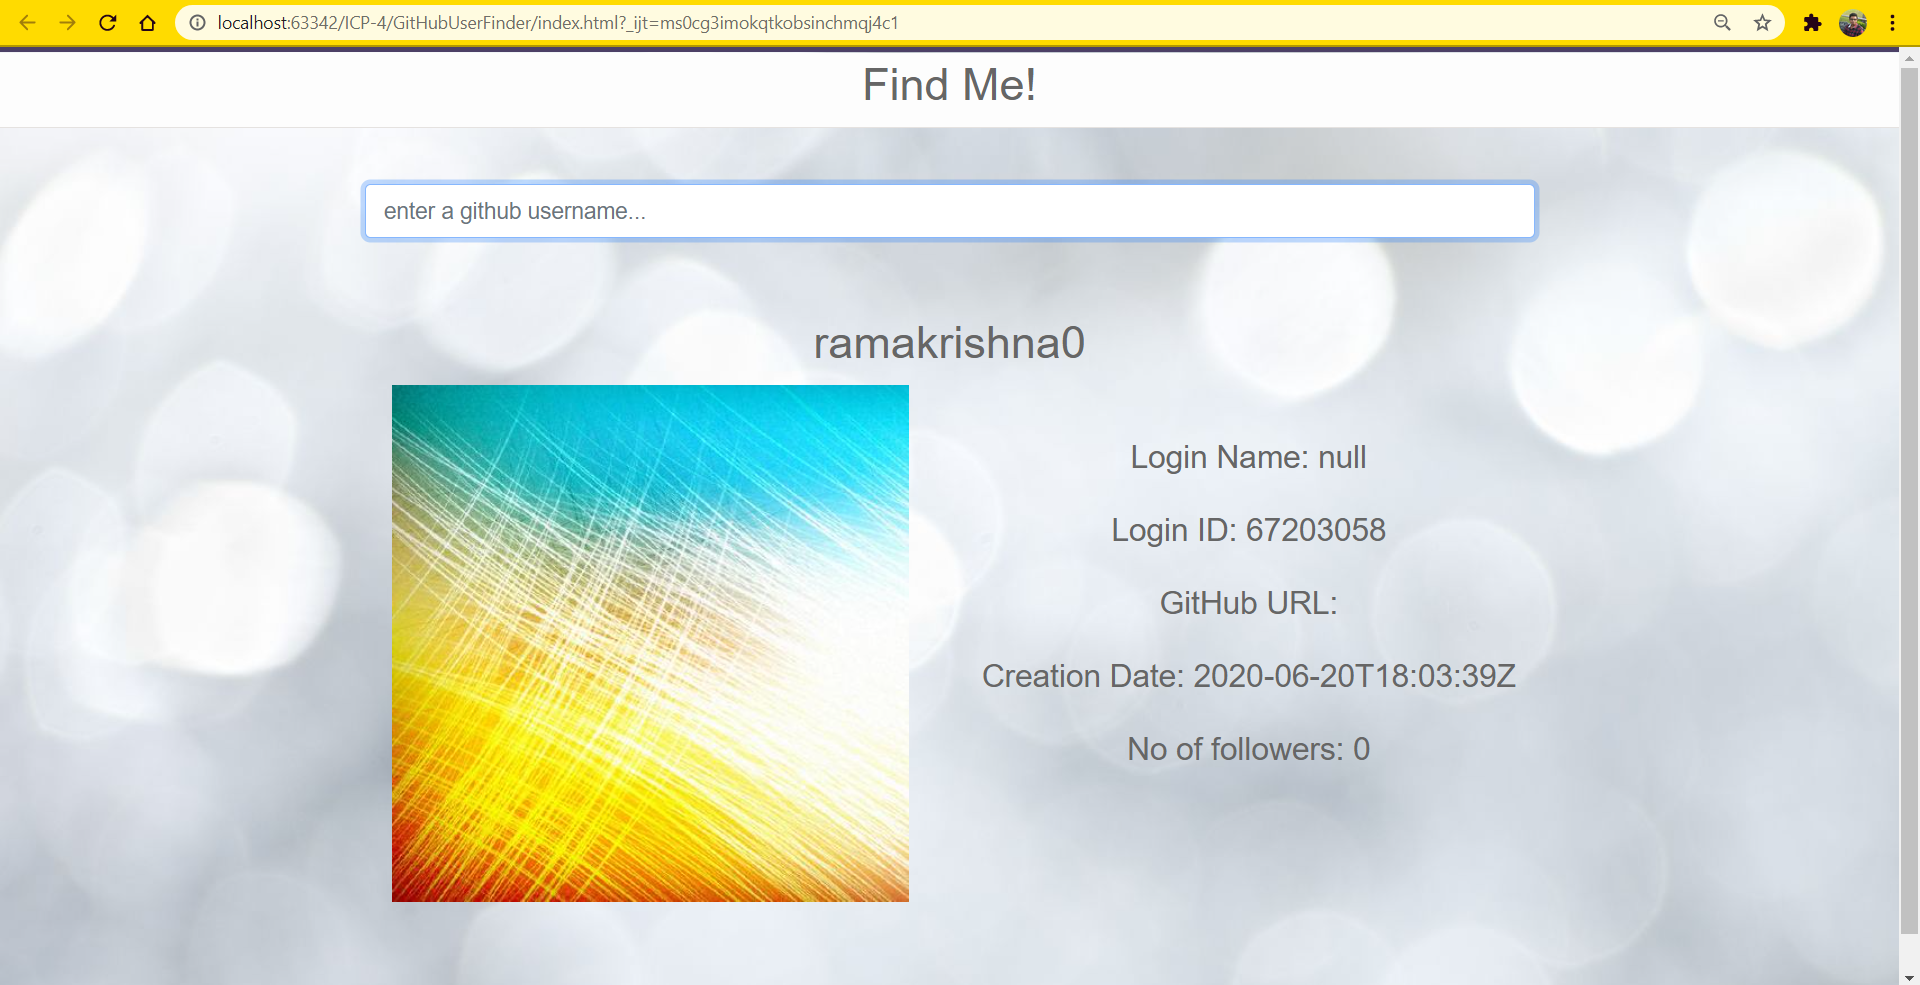
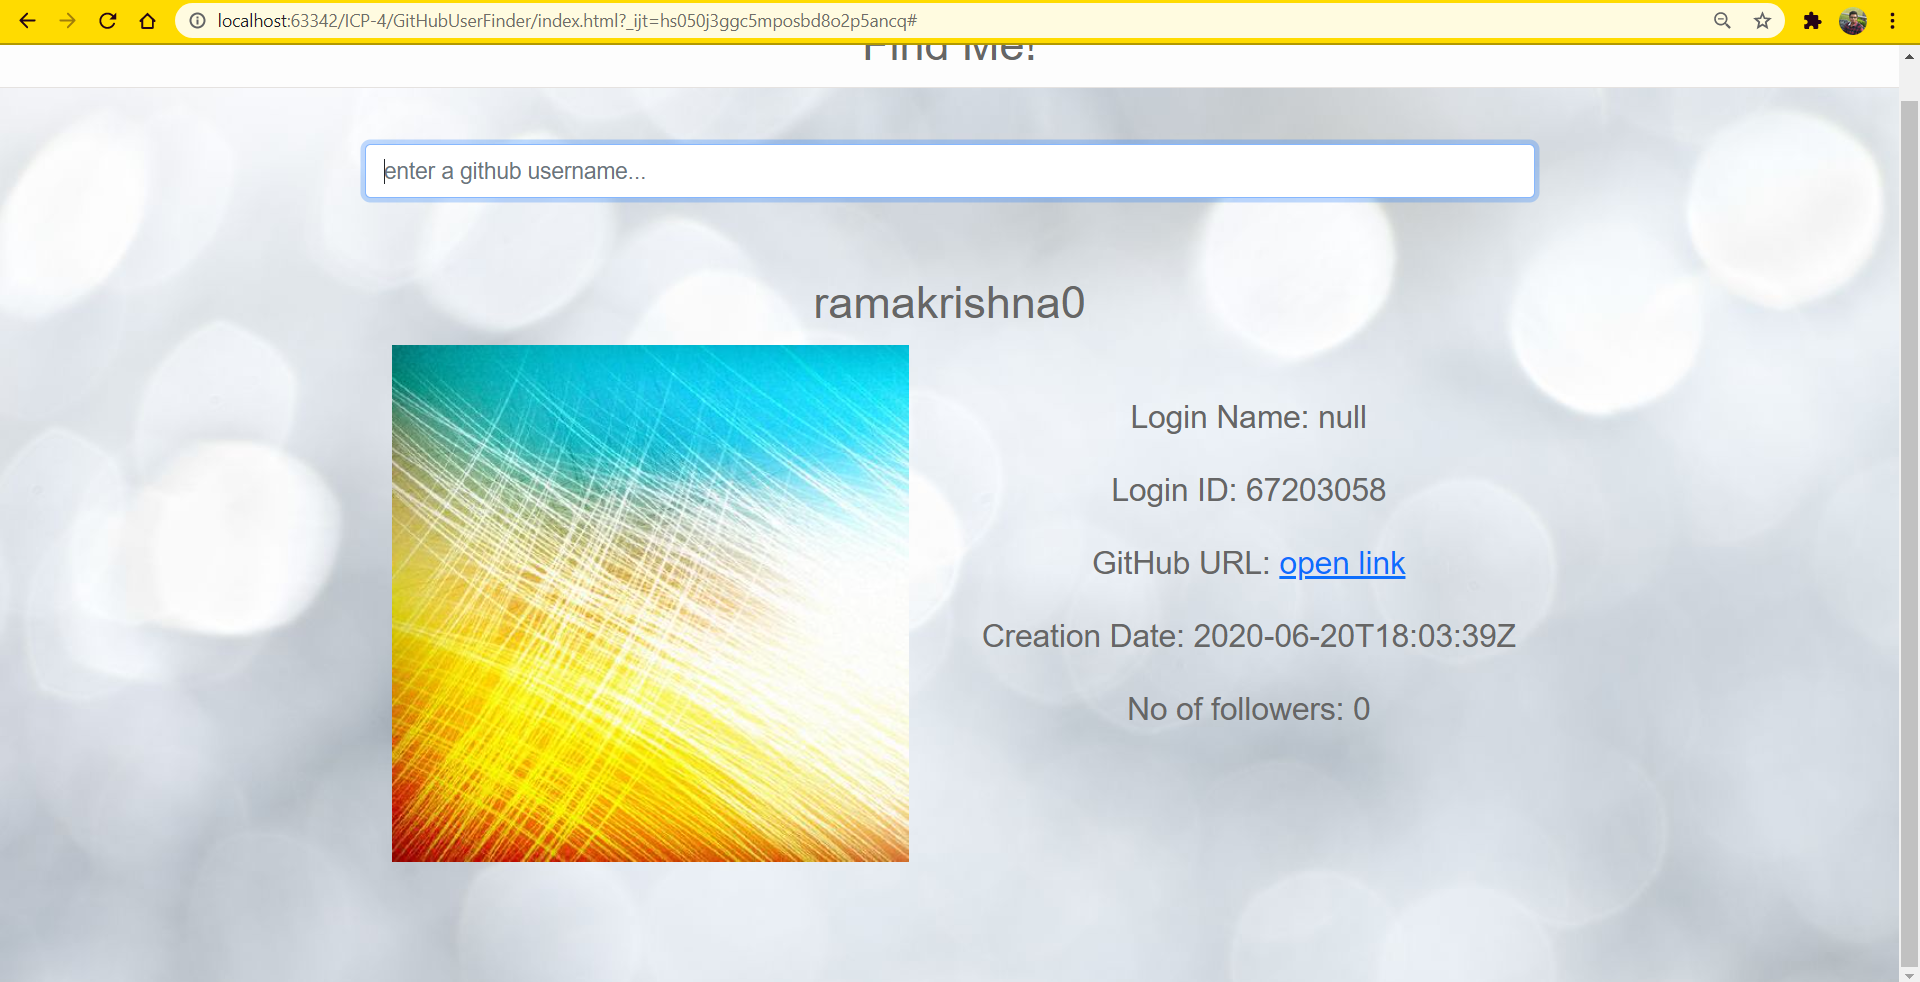
ICP-4

diff --git a/ICP-4/GitHubUserFinder/index.html b/ICP-4/GitHubUserFinder/index.html
@@ -25,7 +25,9 @@
                 <br/><br/>
                 <h3>Login Name: <span id="name"></span></h3><br/>
                 <h3>Login ID: <span id="loginId"></span></h3><br/>
-                <h3>GitHub URL: <span id="gitURL"></span></h3><br/>
+                <h3>GitHub URL:
+                    <a href="#" target="_blank" id="git">open link</a>
+                </h3><br/>
                 <h3>Creation Date: <span id="creationDate"></span></h3><br/>
                 <h3>No of followers: <span id="followers"></span></h3><br/>
             </div>

diff --git a/ICP-4/GitHubUserFinder/script.js b/ICP-4/GitHubUserFinder/script.js
@@ -25,10 +25,10 @@ function showUser(user) {
     $(".avatar img").attr("src", user.avatar_url);
     $("#name").text(user.name == null ? "null" : user.name);
     $("#loginId").text(user.id);
-    $("#GitHub URL").text(user.html_url);
+    $("#git").attr("href",user.html_url);
     $("#followers").text(user.followers);
     $("#creationDate").text(user.created_at);
-
+    console.log($("#git").attr("href"));
 }
 
 function noSuchUser(username) {
